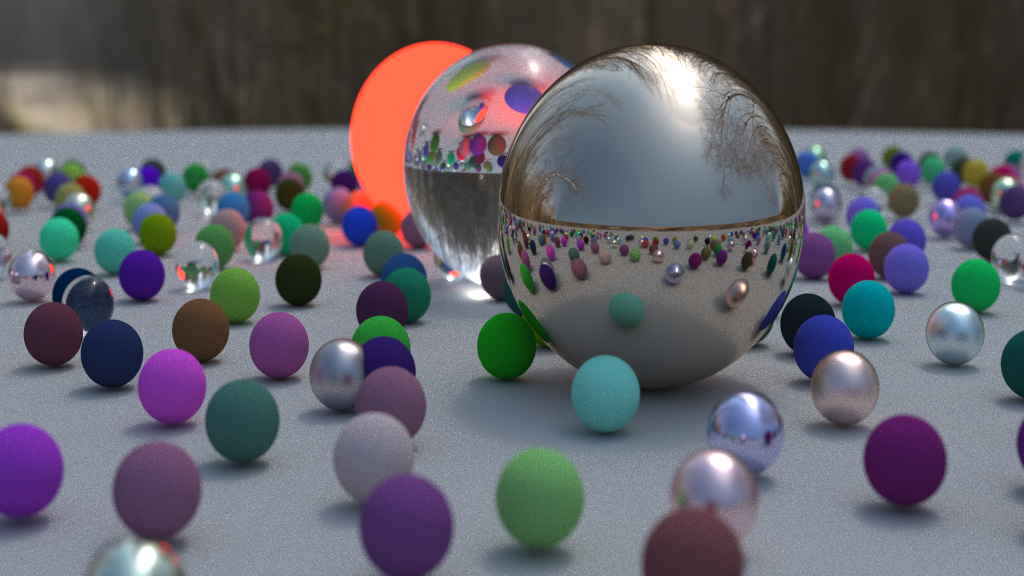
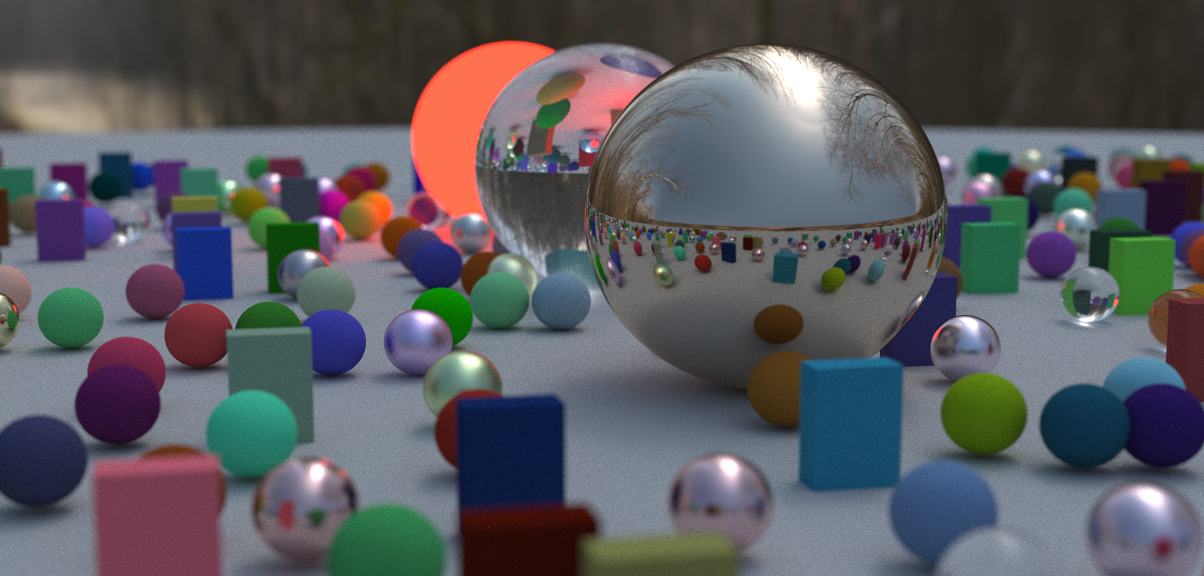
Adding implicitBox, test scene now renders a mix of implicit spheres and boxes

diff --git a/src/implicit.h b/src/implicit.h
@@ -3,8 +3,6 @@
 #include "primitive.h"
 
 
-
-
 // ImplicitPrimitive Base virtual Class
 // Implicit primitive are primitives that are ray marched thanks to their SDF Function
 class ImplicitPrimitive: public Primitive  {
@@ -17,11 +15,12 @@ class ImplicitPrimitive: public Primitive  {
                 if( h < MachineEpsilon * t) {
                     rec.t = t;
                     rec.p = r(rec.t);
-                    // Compute Gradient to get 
+                    // Compute Gradient to get normal
                     Float delta = 10e-5;
-                    Normal norm = Normalize(Vec3( sdf(rec.p+ Vec3(delta, 0, 0)) - sdf(rec.p - Vec3(delta, 0, 0)),
-                                                  sdf(rec.p+ Vec3(0, delta, 0)) - sdf(rec.p - Vec3(0, delta, 0)),
-                                                  sdf(rec.p+ Vec3(0, 0, delta)) - sdf(rec.p - Vec3(0, 0, delta)) ));
+                    // Float delta = 0.0001;
+                    Normal norm = Normalize(Vec3( sdf(rec.p + Vec3(delta, 0, 0)) - sdf(rec.p + Vec3(-delta, 0, 0)),
+                                                  sdf(rec.p + Vec3(0, delta, 0)) - sdf(rec.p + Vec3(0, -delta, 0)),
+                                                  sdf(rec.p + Vec3(0, 0, delta)) - sdf(rec.p + Vec3(0, 0, -delta)) ));
                     rec.SetFaceNormal(r, norm);
                     rec.material = this->GetMaterial();
                     return true;
@@ -38,6 +37,7 @@ class ImplicitPrimitive: public Primitive  {
         virtual Float sdf(Point p) const = 0;
 
         virtual shared_ptr<Material> GetMaterial() const = 0;
+
 
 };
 
@@ -68,18 +68,20 @@ class ImplicitSphere: public ImplicitPrimitive {
 
 };
 
-class ImplicitPlane: public ImplicitPrimitive {
+
+class ImplicitBox: public ImplicitPrimitive {
     public:
-        ImplicitPlane(Float height, shared_ptr<Material> mat) : _height(height), material(mat) {}
+        ImplicitBox(Point center, Vec3 size, shared_ptr<Material> mat) : _center(center), _size(size), material(mat) {}
 
         bool BoundingBox(Float t0, Float t1, BBox& output_box) const {
-            output_box = BBox( Vec3(-Infinity, _height-10e-5, -Infinity),
-                               Vec3(Infinity, _height+10e-5, Infinity) );
+            output_box = BBox( _center - _size,
+                               _center + _size );
             return true;
         }
 
         Float sdf(Point p) const {
-            return p.y - _height;
+            Vec3 d = Abs(p-_center) - _size ;
+            return Min(Max(d.x,Max(d.y,d.z)),0.0) + Vec3(Max(d.x,0),Max(d.y,0),Max(d.z,0)).Length();
         }
 
         shared_ptr<Material> GetMaterial() const {
@@ -90,5 +92,6 @@ class ImplicitPlane: public ImplicitPrimitive {
     shared_ptr<Material> material;
 
     private:
-        Float _height;
+        Point _center;
+        Vec3 _size;
 };

diff --git a/src/scene.cpp b/src/scene.cpp
@@ -250,8 +250,13 @@ Scene GenerateTestScene(RenderSettings opt) {
                 if (choose_mat < 0.8) {
                     // diffuse
                     auto albedo = RandomVector<Float>() * RandomVector<Float>();
-                    world.add(
-                        make_shared<Sphere>(center, 0.2, make_shared<LambertianMaterial>(albedo)));
+                    if (Rng::Rand01() < 0.3) {
+                        world.add(
+                            make_shared<ImplicitBox>(center, Vec3(0.1, 0.35, 0.2), make_shared<LambertianMaterial>(albedo))); 
+                    } else {
+                        world.add(
+                            make_shared<Sphere>(center, 0.2, make_shared<LambertianMaterial>(albedo)));
+                    }
                 } else if (choose_mat < 0.95) {
                     // metal
                     auto albedo = RandomVector<Float>(.5, 1);
@@ -270,9 +275,8 @@ Scene GenerateTestScene(RenderSettings opt) {
         make_shared<Sphere>(Point(0, 1, 0), 1.0, make_shared<DielectricMaterial>(1.5)));
     world.add(
         make_shared<ImplicitSphere>(Point(-4, 1, 0), 1.0, make_shared<EmissiveMaterial>(Color(5, 0.2, 0.1))));
-    // shared_ptr<Primitive>sph= make_shared<SphereSDF>(Point(0,0,0), 1, make_shared<EmissiveMaterial>(Color(5, 0.2, 0.1)));
     world.add(   
-        make_shared<ImplicitSphere>(Point(4, 1, 0), 1.0, make_shared<MetalMaterial>(Color(0.7, 0.6, 0.5), 0.0)));
+        make_shared<Sphere>(Point(4, 1, 0), 1.0, make_shared<MetalMaterial>(Color(0.7, 0.6, 0.5), 0.0)));
 
     shared_ptr<BVH> bvh = make_shared<BVH>(world, 0.0, 0.0);
     Scene scene(bvh, cam, opt);
